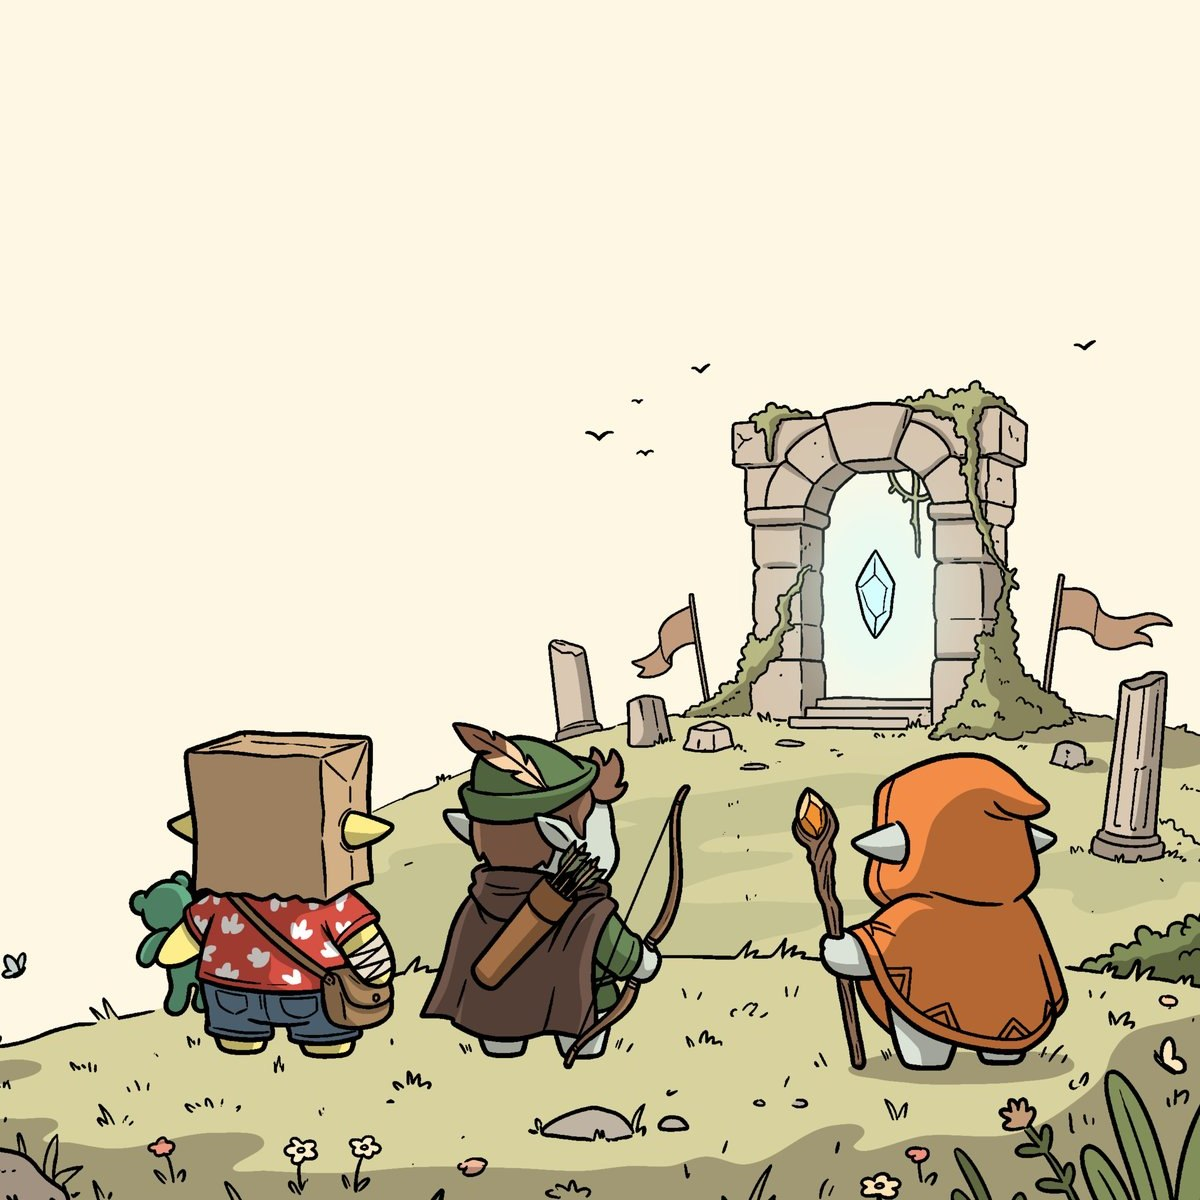
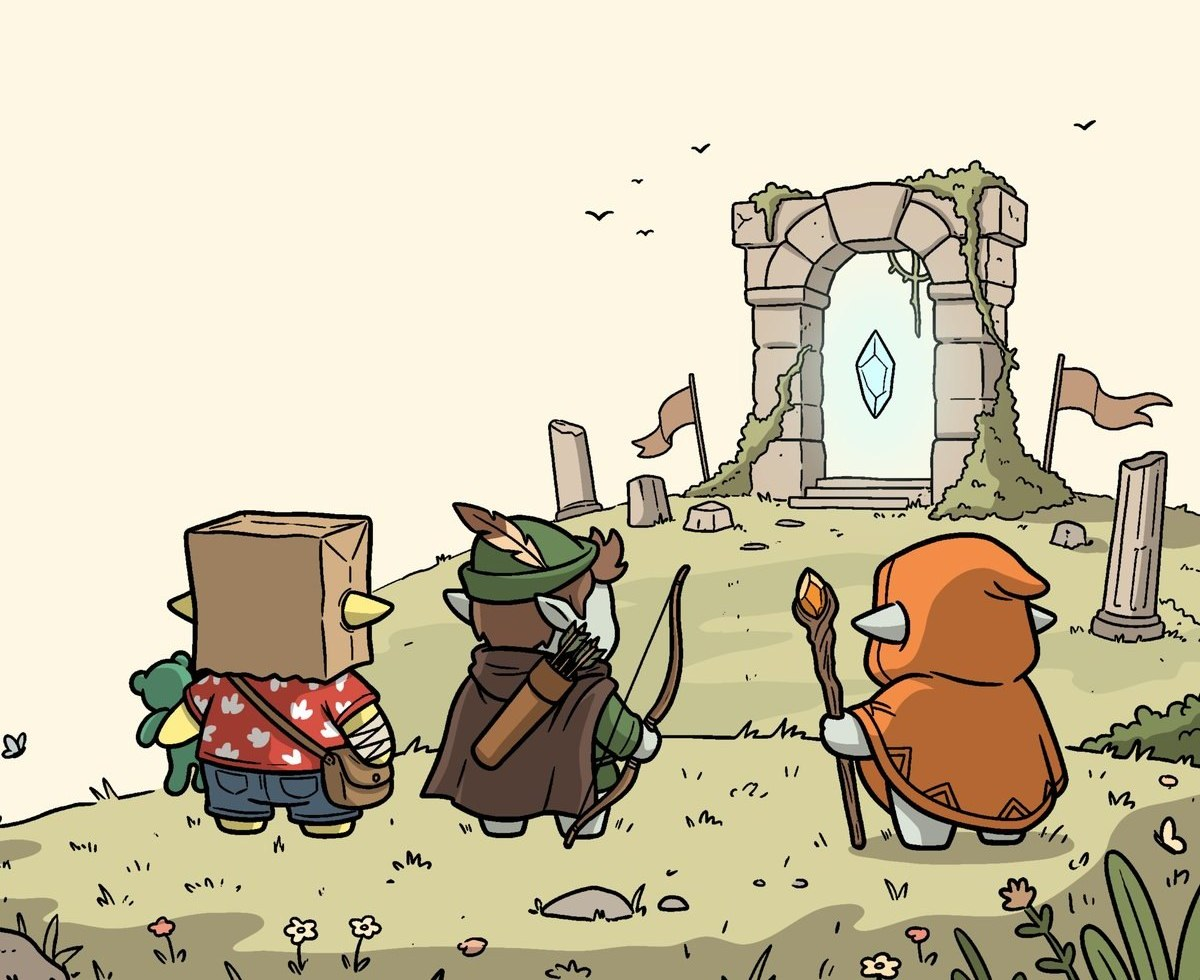
update

diff --git a/src/components/HeroSection.tsx b/src/components/HeroSection.tsx
@@ -19,17 +19,27 @@ const HeroSectionComponent: React.FC<HeroSectionProps> = ({
       className="relative min-h-0 lg:min-h-[90vh] pt-28 sm:pt-32 md:pt-36 pb-16 sm:pb-20 md:pb-24 px-4 sm:px-6 md:px-12 flex flex-col justify-start lg:justify-center items-center overflow-hidden bg-[#FFFDF8]"
     >
       {/* Desktop/Tablet Background Artwork Layer (z-index: 0) — hidden below lg, where the
-          dedicated mobile hero image (below) is used instead */}
-      <div
-        className="hidden lg:block absolute inset-0 z-0 bg-no-repeat bg-cover bg-right-bottom pointer-events-none animate-hero-breathe"
-        style={{
-          backgroundImage: `url("${HERO_BACKGROUND_URL}")`
-        }}
+          dedicated mobile hero image (below) is used instead.
+          Rendered as a plain <img> (not a bg-cover div) sized by WIDTH ONLY and anchored
+          bottom-right, so the whole illustration always stays intact and confined to the
+          right side of the section — it can never crop into the characters or drift left
+          into the text column the way bg-cover's height-based scaling could. The width
+          grows at wider breakpoints, where there's naturally more room before the text. */}
+      <img
+        src={HERO_BACKGROUND_URL}
+        alt="The Sanctuary — three Wardlings approaching a glowing ruined gate"
+        className="hidden lg:block absolute right-0 bottom-0 z-0 h-auto max-w-none w-[40%] xl:w-[52%] 2xl:w-[60%] pointer-events-none select-none animate-hero-breathe"
       />
 
-      {/* Semi-transparent White Gradient Overlay (z-index: 10) — desktop/tablet only */}
+      {/* Readability Gradient (z-index: 10) — desktop/tablet only. Solid cream behind the
+          text column, then a soft fade into the artwork; kept subtle (never a solid block)
+          so it reads as one continuous illustrated scene rather than a text card. */}
       <div
-        className="hidden lg:block absolute inset-0 z-10 pointer-events-none bg-gradient-to-r from-[#FFFDF8]/70 via-[#FFFDF8]/30 sm:via-[#FFFDF8]/20 to-transparent"
+        className="hidden lg:block absolute inset-0 z-10 pointer-events-none"
+        style={{
+          background:
+            'linear-gradient(to right, #FFFDF8 0%, #FFFDF8 34%, rgba(255,253,248,0.55) 45%, rgba(255,253,248,0) 58%)'
+        }}
       />
 
       {/* Hero Content (z-index: 20) */}
@@ -76,18 +86,15 @@ const HeroSectionComponent: React.FC<HeroSectionProps> = ({
         </div>
       </div>
 
-      {/* Mobile/Tablet Hero Artwork — sits below the typography and CTAs in normal
-          document flow (not a background), shown only below the lg breakpoint where
-          the desktop background layer above is hidden. */}
-      <div className="lg:hidden relative z-20 w-full max-w-md sm:max-w-lg mx-auto mt-8 sm:mt-10">
+      {/* Mobile/Tablet Hero Artwork — same hero section as the typography above, not a
+          separate block: bleeds edge-to-edge and sits close beneath the CTAs so the
+          whole thing reads as one continuous illustrated scene. Shown only below the
+          lg breakpoint where the desktop background layer above is hidden. */}
+      <div className="lg:hidden relative z-20 w-full -mx-4 sm:-mx-6 mt-4 sm:mt-5">
         <img
           src={HERO_MOBILE_URL}
           alt="Three Wardlings — a box-headed forest spirit, a hooded archer, and a robed keeper — standing before a glowing ruined gate"
-          className="w-full h-auto object-contain animate-hero-breathe"
-          style={{
-            maskImage: 'linear-gradient(to bottom, transparent, black 8%)',
-            WebkitMaskImage: 'linear-gradient(to bottom, transparent, black 8%)'
-          }}
+          className="w-full h-auto block animate-hero-breathe"
         />
       </div>
     </section>

diff --git a/src/components/ResidentsSection.tsx b/src/components/ResidentsSection.tsx
@@ -30,7 +30,7 @@ export const ResidentsSection: React.FC = () => {
       title: 'Legendary Wardlings',
       rarity: 'Legendary Tier',
       badgeColor: 'bg-amber-200',
-      imageUrl: 'https://osyvztzqmtimbefklcsn.supabase.co/storage/v1/object/public/assets/Legendary.jpg',
+      imageUrl: '/assets/Legendary.jpg',
       description: 'Blessed with golden sunburst antlers and rare blooming petals that never wither.',
       handwrittenNote: 'Very shy! Loves sweet honey sap 🍯'
     },
@@ -39,7 +39,7 @@ export const ResidentsSection: React.FC = () => {
       title: 'Epic Wardlings',
       rarity: 'Epic Tier',
       badgeColor: 'bg-[#D9F5C2]',
-      imageUrl: 'https://osyvztzqmtimbefklcsn.supabase.co/storage/v1/object/public/assets/Epic.jpg',
+      imageUrl: '/assets/Epic.jpg',
       description: 'Adorned in mossy crowns and luminescent fungi, protecting ancient woodland paths.',
       handwrittenNote: 'Guild leader of the Moss Scouts 🌿'
     },
@@ -48,7 +48,7 @@ export const ResidentsSection: React.FC = () => {
       title: 'Uncommon Wardlings',
       rarity: 'Uncommon Tier',
       badgeColor: 'bg-[#DFF4FF]',
-      imageUrl: 'https://osyvztzqmtimbefklcsn.supabase.co/storage/v1/object/public/assets/Uncommon.jpg',
+      imageUrl: '/assets/Uncommon.jpg',
       description: 'Curious explorers carrying river pebble pendants and sprout antennas.',
       handwrittenNote: 'Collects shiny blue stream stones 💎'
     },
@@ -57,7 +57,7 @@ export const ResidentsSection: React.FC = () => {
       title: 'Common Wardlings',
       rarity: 'Common Tier',
       badgeColor: 'bg-stone-200',
-      imageUrl: 'https://osyvztzqmtimbefklcsn.supabase.co/storage/v1/object/public/assets/Common.jpg',
+      imageUrl: '/assets/Common.jpg',
       description: 'Cheerful woodland helpers who plant acorn seeds and water morning sprouts.',
       handwrittenNote: 'Always seen with a tiny watering leaf 🍃'
     }

diff --git a/src/lib/storage.ts b/src/lib/storage.ts
@@ -24,28 +24,28 @@ const INITIAL_GALLERY: GalleryItem[] = [
     id: 'g-legendary',
     title: 'Sunburst Legendary',
     category: 'Legendary',
-    url: 'https://osyvztzqmtimbefklcsn.supabase.co/storage/v1/object/public/assets/Legendary.jpg',
+    url: '/assets/Legendary.jpg',
     description: 'Spotted near the golden streams of the eastern clearing.'
   },
   {
     id: 'g-epic',
     title: 'Mossy Canopy Epic',
     category: 'Epic',
-    url: 'https://osyvztzqmtimbefklcsn.supabase.co/storage/v1/object/public/assets/Epic.jpg',
+    url: '/assets/Epic.jpg',
     description: 'Wears a crown of luminescent mushrooms and ancient fern leaves.'
   },
   {
     id: 'g-uncommon',
     title: 'Pebble Wanderer',
     category: 'Uncommon',
-    url: 'https://osyvztzqmtimbefklcsn.supabase.co/storage/v1/object/public/assets/Uncommon.jpg',
+    url: '/assets/Uncommon.jpg',
     description: 'Curious explorer with smooth river stone horns.'
   },
   {
     id: 'g-common',
     title: 'Sprout Scout',
     category: 'Common',
-    url: 'https://osyvztzqmtimbefklcsn.supabase.co/storage/v1/object/public/assets/Common.jpg',
+    url: '/assets/Common.jpg',
     description: 'Friendly woodland resident tending to tiny acorn seedlings.'
   }
 ];

diff --git a/index.html b/index.html
@@ -6,8 +6,8 @@
     <title>Wardlings — Tiny Guardians of the Sanctuary</title>
 
     <!-- Favicon: real Wardlings logo. -->
-    <link rel="icon" type="image/png" href="https://osyvztzqmtimbefklcsn.supabase.co/storage/v1/object/public/assets/Logo.png" />
-    <link rel="apple-touch-icon" href="https://osyvztzqmtimbefklcsn.supabase.co/storage/v1/object/public/assets/Logo.png" />
+    <link rel="icon" type="image/png" href="/assets/Logo.png" />
+    <link rel="apple-touch-icon" href="/assets/Logo.png" />
     <link rel="preconnect" href="https://fonts.googleapis.com">
     <link rel="preconnect" href="https://fonts.gstatic.com" crossorigin>
     <link href="https://fonts.googleapis.com/css2?family=Baloo+2:wght@500;600;700;800&family=DynaPuff:wght@500;600;700&family=Nunito:ital,wght@0,400;0,600;0,700;0,800;1,400;1,600&family=Patrick+Hand&display=swap" rel="stylesheet">
@@ -35,7 +35,7 @@
       rel="preload"
       as="image"
       fetchpriority="high"
-      href="https://osyvztzqmtimbefklcsn.supabase.co/storage/v1/object/public/assets/Logo.png"
+      href="/assets/Logo.png"
     />
   </head>
   <body class="bg-[#FFF9EF] text-[#2B2B2B] antialiased selection:bg-[#F7BFD5] selection:text-[#2B2B2B]">

diff --git a/src/components/CollectionSection.tsx b/src/components/CollectionSection.tsx
@@ -1,9 +1,9 @@
 import React from 'react';
 
-const AVATAR1_URL = 'https://osyvztzqmtimbefklcsn.supabase.co/storage/v1/object/public/assets/Common.jpg';
-const AVATAR2_URL = 'https://osyvztzqmtimbefklcsn.supabase.co/storage/v1/object/public/assets/Uncommon.jpg';
-const AVATAR3_URL = 'https://osyvztzqmtimbefklcsn.supabase.co/storage/v1/object/public/assets/Epic.jpg';
-const AVATAR4_URL = 'https://osyvztzqmtimbefklcsn.supabase.co/storage/v1/object/public/assets/Legendary.jpg';
+const AVATAR1_URL = '/assets/Common.jpg';
+const AVATAR2_URL = '/assets/Uncommon.jpg';
+const AVATAR3_URL = '/assets/Epic.jpg';
+const AVATAR4_URL = '/assets/Legendary.jpg';
 
 interface RarityCard {
   rarity: 'Common' | 'Uncommon' | 'Epic' | 'Legendary';

diff --git a/src/components/GallerySection.tsx b/src/components/GallerySection.tsx
@@ -95,7 +95,7 @@ export const GallerySection: React.FC = () => {
                   className="w-full h-auto object-cover group-hover:scale-105 transition-transform duration-500"
                   onError={(e) => {
                     // Fallback placeholder
-                    (e.target as HTMLImageElement).src = 'https://osyvztzqmtimbefklcsn.supabase.co/storage/v1/object/public/assets/Common.jpg';
+                    (e.target as HTMLImageElement).src = '/assets/Common.jpg';
                   }}
                 />
                 {/* Hover overlay button */}

diff --git a/src/components/ApplicationSection.tsx b/src/components/ApplicationSection.tsx
@@ -10,9 +10,9 @@ import { XIcon, DiscordIcon } from './SocialIcons';
 
 // Authoritative Visual Assets
 const GRAPHIC_WINNER_URL =
-  'https://osyvztzqmtimbefklcsn.supabase.co/storage/v1/object/public/assets/Youreuin.png';
+  '/assets/Youreuin.png';
 const GRAPHIC_NOT_FOUND_URL =
-  'https://osyvztzqmtimbefklcsn.supabase.co/storage/v1/object/public/assets/Notthistime.png';
+  '/assets/Notthistime.png';
 
 // Brand confetti celebration colors
 const CONFETTI_COLORS = ['#82C66A', '#F7BFD5', '#FDE047', '#DFF4FF', '#2F241D'];

diff --git a/src/components/Navbar.tsx b/src/components/Navbar.tsx
@@ -83,7 +83,7 @@ const NavbarComponent: React.FC<NavbarProps> = ({
           className="flex items-center gap-1.5 sm:gap-2 group cursor-pointer text-left shrink-0"
         >
           <img
-            src="https://osyvztzqmtimbefklcsn.supabase.co/storage/v1/object/public/assets/Logo.png"
+            src="/assets/Logo.png"
             alt="Wardlings"
             width="32"
             height="32"

diff --git a/src/components/Footer.tsx b/src/components/Footer.tsx
@@ -13,7 +13,7 @@ const DISCORD_INVITE_URL = 'https://discord.com/invite/AXjAt95DK';
 const FooterComponent: React.FC<FooterProps> = ({
   twitterUrl = 'https://x.com/WardlingsNFT'
 }) => {
-  const LOGO_URL = 'https://osyvztzqmtimbefklcsn.supabase.co/storage/v1/object/public/assets/Logo.png';
+  const LOGO_URL = '/assets/Logo.png';
 
   return (
     <footer

diff --git a/src/components/WardlingsProgressTracker.tsx b/src/components/WardlingsProgressTracker.tsx
@@ -1,7 +1,7 @@
 import React from 'react';
 import { motion } from 'motion/react';
 
-const WARDLINGS_LOGO_URL = 'https://osyvztzqmtimbefklcsn.supabase.co/storage/v1/object/public/assets/Logo.png';
+const WARDLINGS_LOGO_URL = '/assets/Logo.png';
 
 interface WardlingsProgressTrackerProps {
   currentStep: number; // 1, 2, 3, 4, 5
